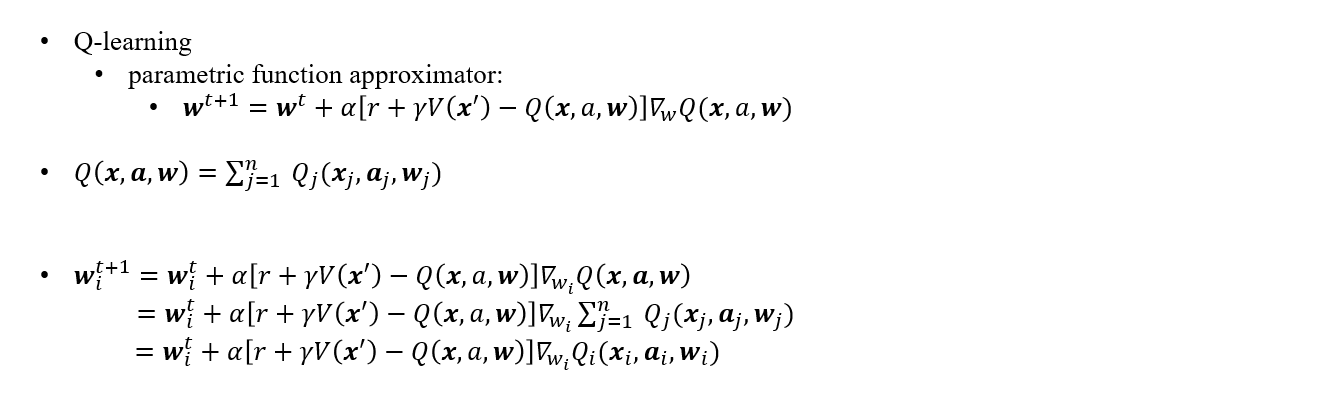
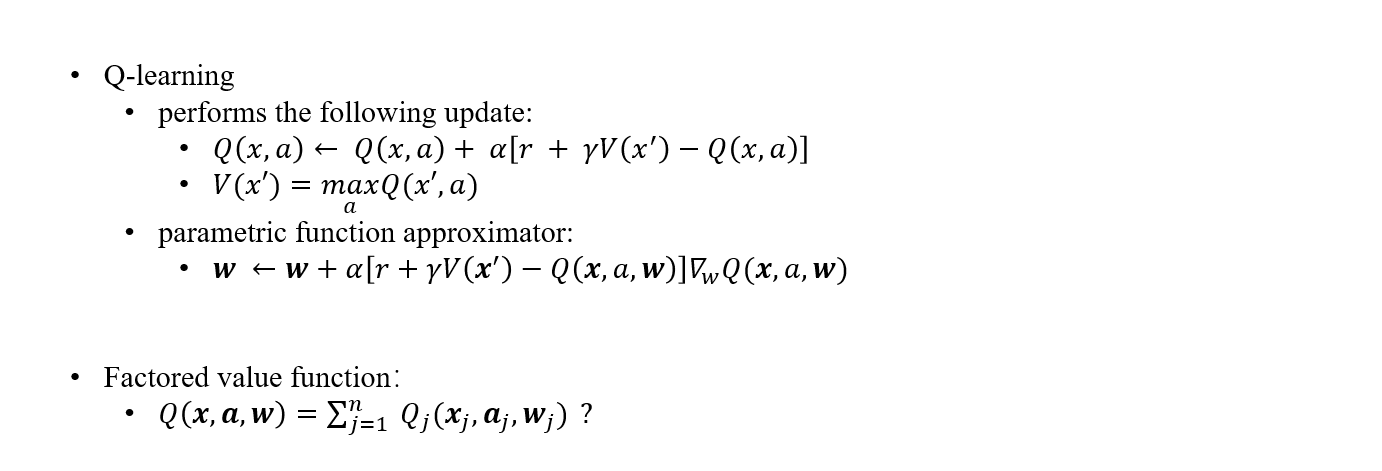
Site updated: 2021-01-22 10:26:33

diff --git a/2021/01/16/Decentralized-Patrolling-Under-Constraints-in-Dynamic-Environments/index.html b/2021/01/16/Decentralized-Patrolling-Under-Constraints-in-Dynamic-Environments/index.html
@@ -95,6 +95,7 @@
 <meta property="og:image" content="http://yoursite.com/2021/01/16/Decentralized-Patrolling-Under-Constraints-in-Dynamic-Environments/ppt10.PNG">
 <meta property="og:image" content="http://yoursite.com/2021/01/16/Decentralized-Patrolling-Under-Constraints-in-Dynamic-Environments/ppt11.PNG">
 <meta property="og:image" content="http://yoursite.com/2021/01/16/Decentralized-Patrolling-Under-Constraints-in-Dynamic-Environments/ppt12.PNG">
+<meta property="og:image" content="http://yoursite.com/2021/01/16/Decentralized-Patrolling-Under-Constraints-in-Dynamic-Environments/ppt13-1.PNG">
 <meta property="og:image" content="http://yoursite.com/2021/01/16/Decentralized-Patrolling-Under-Constraints-in-Dynamic-Environments/ppt13-2.PNG">
 <meta property="og:image" content="http://yoursite.com/2021/01/16/Decentralized-Patrolling-Under-Constraints-in-Dynamic-Environments/ppt14.PNG">
 <meta property="og:image" content="http://yoursite.com/2021/01/16/Decentralized-Patrolling-Under-Constraints-in-Dynamic-Environments/ppt15.PNG">
@@ -103,7 +104,7 @@
 <meta property="og:image" content="http://yoursite.com/2021/01/16/Decentralized-Patrolling-Under-Constraints-in-Dynamic-Environments/ppt20-2.PNG">
 <meta property="og:image" content="http://yoursite.com/2021/01/16/Decentralized-Patrolling-Under-Constraints-in-Dynamic-Environments/ppt21.PNG">
 <meta property="article:published_time" content="2021-01-16T07:45:00.000Z">
-<meta property="article:modified_time" content="2021-01-20T12:14:27.131Z">
+<meta property="article:modified_time" content="2021-01-22T02:26:17.917Z">
 <meta property="article:author" content="COOLA-LAB">
 <meta property="article:tag" content="-MCTS -分布式 -强化学习 -因子图">
 <meta name="twitter:card" content="summary">
@@ -429,6 +430,7 @@
 <p>这里，我们希望只需要对局部的$Q_j$建立近似函数，而$Q$则由局部函数组合得到。</p>
 <p>这样，类似于我们之前在第三部分最后关于表格型RL的讨论，局部函数的复杂性可以大大降低，因为其输入$x_j,a_j$的维数远远小于$x,a$。</p>
 <p>但是涉及到具体更新实现，仍会遇到问题。我们将$V$用$Q$替换以获得更加清晰的更新式：</p>
+<p><img src="/2021/01/16/Decentralized-Patrolling-Under-Constraints-in-Dynamic-Environments/ppt13-1.PNG" alt="ppt13-1"></p>
 <p>其中，$Q(x,a,w)$可以由$Q_i(x_i,a_i,w_i)$通过求和计算，$\nabla_{w_i}Q_i(x_i,a_i,w_i)$是我们维护的近似函数，可以直接计算获得。</p>
 <p>而实际上，最后的$\max_{a’}Q(x’,a’,w)=\max_{a_i’}\sum Q_i(x’_i,a’_i,w_i)$，与之前第四部分问题形式一致，可以通过VE算法获得。</p>
 <p>一个可行的分布式算法流程如下：</p>

diff --git a/index.html b/index.html
@@ -594,6 +594,7 @@
 <p>这里，我们希望只需要对局部的$Q_j$建立近似函数，而$Q$则由局部函数组合得到。</p>
 <p>这样，类似于我们之前在第三部分最后关于表格型RL的讨论，局部函数的复杂性可以大大降低，因为其输入$x_j,a_j$的维数远远小于$x,a$。</p>
 <p>但是涉及到具体更新实现，仍会遇到问题。我们将$V$用$Q$替换以获得更加清晰的更新式：</p>
+<p><img src="/2021/01/16/Decentralized-Patrolling-Under-Constraints-in-Dynamic-Environments/ppt13-1.PNG" alt="ppt13-1"></p>
 <p>其中，$Q(x,a,w)$可以由$Q_i(x_i,a_i,w_i)$通过求和计算，$\nabla_{w_i}Q_i(x_i,a_i,w_i)$是我们维护的近似函数，可以直接计算获得。</p>
 <p>而实际上，最后的$\max_{a’}Q(x’,a’,w)=\max_{a_i’}\sum Q_i(x’_i,a’_i,w_i)$，与之前第四部分问题形式一致，可以通过VE算法获得。</p>
 <p>一个可行的分布式算法流程如下：</p>

diff --git a/css/main.css b/css/main.css
@@ -1822,7 +1822,7 @@ pre .javascript .function {
   width: 4px;
   height: 4px;
   border-radius: 50%;
-  background: #090e81;
+  background: #ff3dff;
 }
 .links-of-blogroll {
   font-size: 13px;
